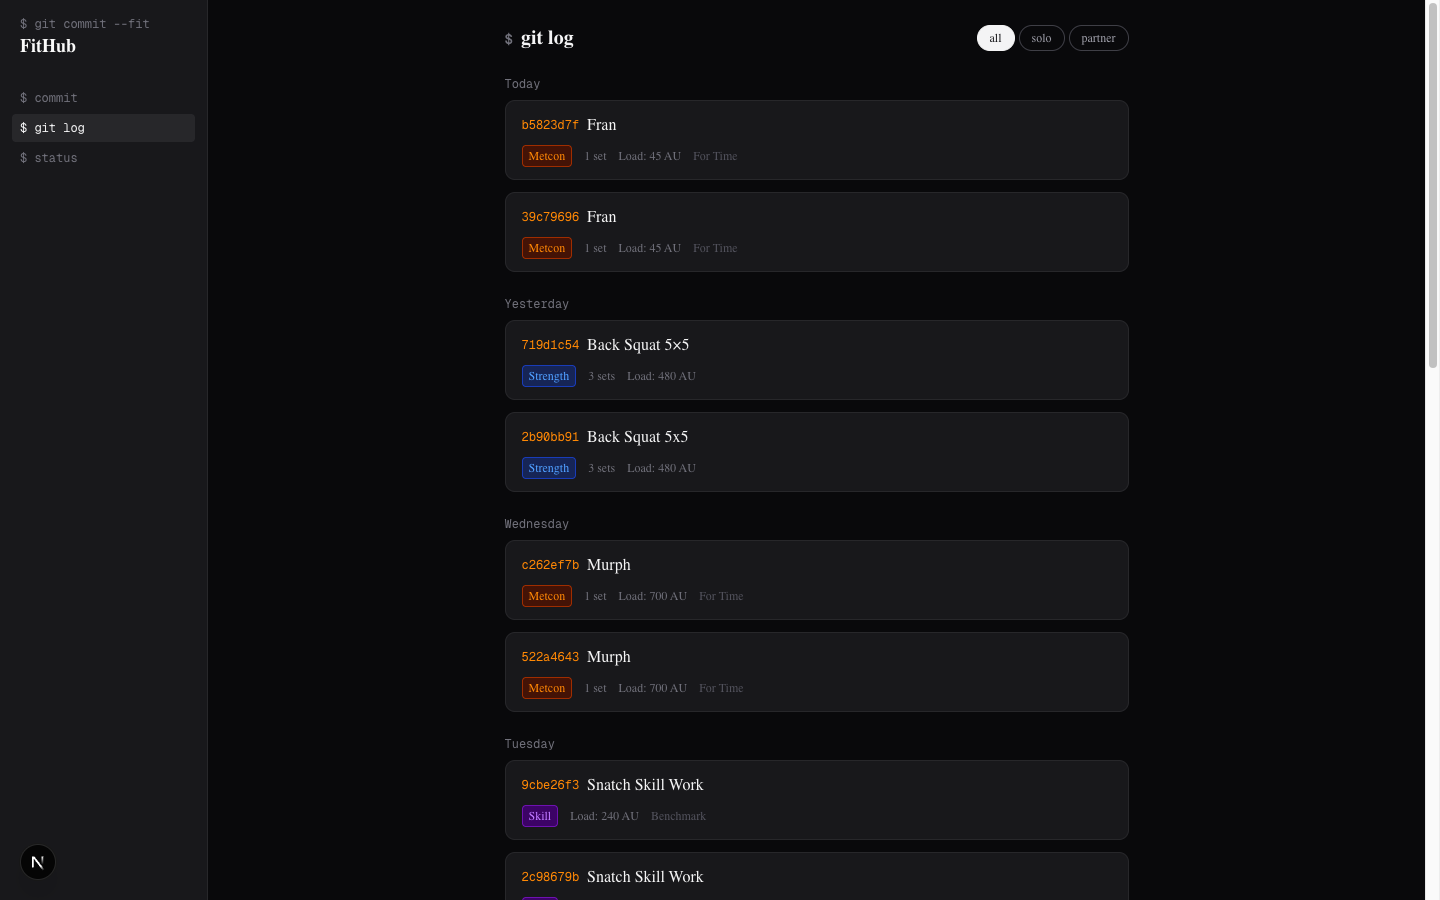
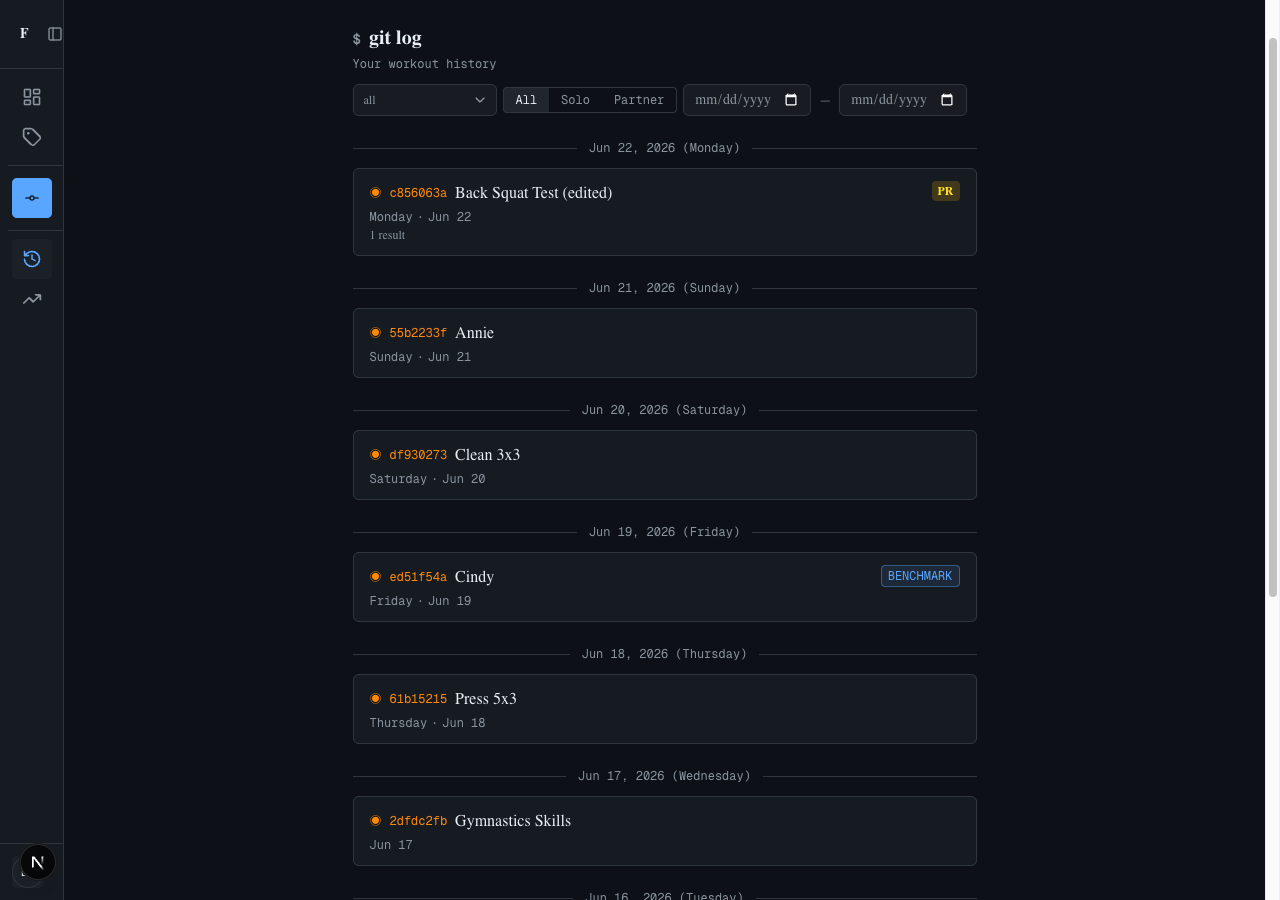
docs: update README with post-revamp screenshots and feature list (#68)
Replace four stale pre-revamp screenshots with six new ones covering the
redesigned pages: progress (hero), history desktop/mobile, logger, records,
and coach. Update the feature table, architecture table (shadcn/ui, SSE
streaming coach, training balance), and test counts (252 pytest / 52 pgTAP /
65 E2E / 64 Vitest). Note the completed UI redesign in the status section.

Claude-Session: https://claude.ai/code/session_0196L5uhaCda2e3MVLZ1YAzN

diff --git a/README.md b/README.md
@@ -8,9 +8,9 @@
 [![TypeScript](https://img.shields.io/badge/TypeScript-strict-blue?style=flat-square&logo=typescript&logoColor=white)](https://www.typescriptlang.org/)
 [![Ruff](https://img.shields.io/endpoint?url=https://raw.githubusercontent.com/astral-sh/ruff/main/assets/badge/v2.json)](https://github.com/astral-sh/ruff)
 
-![FitHub dashboard](screenshots/readme/dashboard.png)
+![FitHub progress page](screenshots/readme/progress.png)
 
-FitHub is a training tracker built on a git mental model: every workout is a commit with a short hash ID, the home screen is a contribution graph, and a sidebar styled like a terminal prompt anchors the theme. Under the surface it applies the sports-science models that most fitness apps skip — sRPE-based load, ACWR, and Hooper readiness — plus a deterministic AI layer that generates plans and coaching prose without ever being the source of safety decisions.
+FitHub is a training tracker built on a git mental model: every workout is a commit with a short hash ID, the history page is `git log`, and the sidebar is styled like a terminal prompt. Under the surface it applies the sports-science models that most fitness apps skip — sRPE-based load, ACWR, and Hooper readiness — plus a deterministic AI layer that generates plans and coaching prose without ever being the source of safety decisions.
 
 The app is invite-only and in active development. Email [[email redacted]](mailto:[email redacted]) to request access, or [run it locally](#getting-started).
 
@@ -18,13 +18,14 @@ The app is invite-only and in active development. Email [[email redacted]](mai
 
 ## What it does
 
-| Theme                   | Details                                                                                                                                                             |
-| ----------------------- | ------------------------------------------------------------------------------------------------------------------------------------------------------------------- |
-| **Training log**        | Commit metaphor for workouts — short hash IDs, contribution graph, support for strength, AMRAP, EMOM, benchmark WODs, and team sessions                             |
-| **Load management**     | sRPE × duration perceived load; ACWR (Acute:Chronic Workload Ratio) via EWMA; ATL/CTL/TSB; Hooper index check-ins for daily readiness                               |
-| **AI coach & planning** | Natural-language log parser; hybrid RAG coach (BM25 + pgvector RRF fusion); adaptive plan generator with deterministic ACWR/readiness triggers; injury train-around |
-| **Data model depth**    | Poliquin 4-digit tempo notation; Epley e1RM cached at write time; VBT fields; wearable-ready schema; IDOR-safe team session consent model                           |
-| **Engineering**         | Invite-only multi-user from day one; deterministic safety logic; 397 tests across three suites; openapi-typescript contract check in CI                             |
+| Theme                   | Details                                                                                                                                                                   |
+| ----------------------- | ------------------------------------------------------------------------------------------------------------------------------------------------------------------------- |
+| **Training log**        | `git commit --fit` — short hash IDs, PR badges, benchmark / partner / AMRAP / EMOM / strength WOD support; NL parser turns plain text into structured sets                |
+| **Load management**     | sRPE × duration perceived load; ACWR via EWMA; ATL/CTL/TSB; Hooper index check-ins; training balance breakdown by muscle group                                            |
+| **Personal records**    | `git tag` — milestone screen for quick PR logging; Records page with sparklines, trend projections, and named-benchmark progress (e.g. Fran 4:47 → 3:48)                  |
+| **AI coach & planning** | SSE streaming chat with session history; hybrid RAG (BM25 + pgvector RRF fusion); adaptive plan generator with deterministic ACWR/readiness triggers; injury train-around |
+| **Data model depth**    | Poliquin 4-digit tempo notation; Epley e1RM cached at write time; VBT fields; wearable-ready schema; IDOR-safe team session consent model                                 |
+| **Engineering**         | Invite-only multi-user from day one; deterministic safety logic; 433 tests across four suites; openapi-typescript contract check in CI                                    |
 
 ---
 
@@ -34,7 +35,7 @@ The app is invite-only and in active development. Email [[email redacted]](mai
 FitHub/
 ├── apps/
 │   ├── api/          # FastAPI — Python 3.14, Alembic migrations, psycopg3
-│   └── web/          # Next.js 16 App Router, shadcn/ui (Base UI), Tailwind v4
+│   └── web/          # Next.js 16 App Router, shadcn/ui, Tailwind v4
 ├── packages/
 │   └── shared/       # TypeScript types generated from the FastAPI OpenAPI spec
 ├── supabase/         # Local dev config, seed data, pgTAP RLS tests
@@ -51,16 +52,16 @@ The frontend calls FastAPI exclusively. Supabase handles auth (magic-link + Goog
 
 `packages/shared` contains TypeScript types generated from the FastAPI OpenAPI schema via `openapi-typescript`. A CI job re-exports the spec and regenerates types on every PR, failing on any drift between the API contract and the frontend type definitions.
 
-| Layer    | Technology                                                            |
-| -------- | --------------------------------------------------------------------- |
-| Frontend | Next.js 16 App Router, shadcn/ui (Base UI), Tailwind v4               |
-| Backend  | FastAPI, Pydantic v2, Alembic, psycopg3                               |
-| Database | Supabase Postgres + pgvector, RLS on every table                      |
-| Auth     | Supabase magic-link + Google OAuth, ES256 JWT via JWKS                |
-| AI       | Claude Haiku 4.5 via Instructor, hybrid RAG (BM25 + pgvector RRF)     |
-| Testing  | pytest (301), pgTAP RLS (42), Playwright E2E (54)                     |
-| CI       | GitHub Actions: lint, typecheck, test, contract drift, security audit |
-| Hosting  | Railway (API) · Vercel (web) · Supabase (DB / auth)                   |
+| Layer    | Technology                                                                       |
+| -------- | -------------------------------------------------------------------------------- |
+| Frontend | Next.js 16 App Router, shadcn/ui, Tailwind v4, Recharts                          |
+| Backend  | FastAPI, Pydantic v2, Alembic, psycopg3                                          |
+| Database | Supabase Postgres + pgvector, RLS on every table                                 |
+| Auth     | Supabase magic-link + Google OAuth, ES256 JWT via JWKS                           |
+| AI       | Claude Haiku 4.5 via Instructor, SSE streaming, hybrid RAG (BM25 + pgvector RRF) |
+| Testing  | pytest (252), pgTAP RLS (52), Playwright E2E (65), Vitest unit (64)              |
+| CI       | GitHub Actions: lint, typecheck, test, contract drift, security audit            |
+| Hosting  | Railway (API) · Vercel (web) · Supabase (DB / auth)                              |
 
 ---
 
@@ -72,7 +73,7 @@ The core principle: **safety-critical logic is deterministic Python; the LLM gen
 
 **NL log parser** — parses free-text workout descriptions into structured Pydantic models using [Instructor](https://github.com/instructor-ai/instructor) with Anthropic tool-use constrained decoding. Schema adherence is ~99% with Instructor vs ~85% with raw JSON mode; the structured output is validated by Pydantic before write.
 
-**Hybrid RAG coach** — retrieval combines BM25 keyword search and pgvector cosine similarity with Reciprocal Rank Fusion. Sources include CrossFit Level 1 programming standards, coaching notes, and session history. Context is XML-delimited before injection to mitigate prompt injection. `GET /api/v1/coach/history` returns persistent session history.
+**Streaming coach** — SSE endpoint with persistent session history. Retrieval combines BM25 keyword search and pgvector cosine similarity with Reciprocal Rank Fusion. Sources include CrossFit Level 1 programming standards, coaching notes, and session history. Context is XML-delimited before injection to mitigate prompt injection.
 
 **Adaptive plan generator** — returns HTTP 202 immediately and exposes a polling URL (async task pattern). Inputs are structured: Epley 1RM estimates, current ACWR, and Hooper readiness score. Output is validated against the sports-science knowledge base before persisting.
 
@@ -95,21 +96,31 @@ The core principle: **safety-critical logic is deterministic Python; the LLM gen
 <tr>
   <td align="center" width="50%">
     <img src="screenshots/readme/history.png" alt="History" />
-    <br /><sub>History — date-grouped sessions, session-type colour coding, PR badges</sub>
+    <br /><sub>History — <code>$ git log</code>, date-grouped commits, short hash IDs, PR and benchmark badges</sub>
   </td>
   <td align="center" width="50%">
-    <img src="screenshots/readme/log-form.png" alt="Log workout" />
-    <br /><sub>Log form — AI natural-language parse or manual entry</sub>
+    <img src="screenshots/readme/logger.png" alt="Log workout" />
+    <br /><sub>Logger — <code>$ git commit --fit</code>, NL parser or manual movement entry with template picker</sub>
   </td>
 </tr>
 <tr>
   <td align="center" width="50%">
-    <img src="screenshots/readme/log-form-expanded.png" alt="Log form expanded" />
-    <br /><sub>Log form expanded — full movement breakdown with set data</sub>
+    <img src="screenshots/readme/records.png" alt="Personal records" />
+    <br /><sub>Records — <code>$ git tag</code>, per-movement PRs with e1RM trend projections and sparklines</sub>
   </td>
   <td align="center" width="50%">
-    <img src="screenshots/readme/detail.png" alt="Workout detail" />
-    <br /><sub>Workout detail — git-commit view with result table and hash footer</sub>
+    <img src="screenshots/readme/coach.png" alt="AI coach" />
+    <br /><sub>Coach — SSE streaming chat with session history and starter prompts</sub>
+  </td>
+</tr>
+<tr>
+  <td align="center" width="50%">
+    <img src="screenshots/readme/history-mobile.png" alt="Mobile history" />
+    <br /><sub>Mobile — bottom tab bar, inset FAB, safe-area insets; full feature parity at 375px</sub>
+  </td>
+  <td align="center" width="50%">
+    <img src="screenshots/readme/progress.png" alt="Progress" />
+    <br /><sub>Progress — <code>$ git diff</code>, ACWR/CTL/TSB, lift trends, weekly volume, named benchmark progress</sub>
   </td>
 </tr>
 </table>
@@ -177,13 +188,14 @@ Open [http://localhost:3000](http://localhost:3000). The app is invite-only; add
 
 ## Testing
 
-FitHub has three test suites and passes strict static analysis. pgTAP is worth highlighting — most web applications rely solely on application-layer authorization checks; the 42 pgTAP tests verify that RLS policies prevent cross-user data access at the database layer, independent of the application code.
+FitHub has four test suites and passes strict static analysis. pgTAP is worth highlighting — most web applications rely solely on application-layer authorization checks; the 52 pgTAP tests verify that RLS policies prevent cross-user data access at the database layer, independent of the application code.
 
 | Suite              | Tool        | Count | Covers                                                  |
 | ------------------ | ----------- | ----- | ------------------------------------------------------- |
-| Unit + integration | pytest      | 301   | API routes, repositories, AI stubs, rate limiting, auth |
-| DB isolation       | pgTAP       | 42    | RLS policies on every table, cross-user data isolation  |
-| Browser E2E        | Playwright  | 54    | Auth flow, workout CRUD, coach chat, plan generation    |
+| Unit + integration | pytest      | 252   | API routes, repositories, AI stubs, rate limiting, auth |
+| DB isolation       | pgTAP       | 52    | RLS policies on every table, cross-user data isolation  |
+| Browser E2E        | Playwright  | 65    | Auth flow, workout CRUD, coach chat, plan generation    |
+| Unit (frontend)    | Vitest      | 64    | Utility functions, hooks, API client, component logic   |
 | Static analysis    | mypy + ruff | —     | Strict mypy, zero `Any` in models, ruff format          |
 
 ```bash
@@ -195,6 +207,9 @@ supabase --workdir . test db
 
 # E2E (requires API running on port 8000 with STUB_LLM=true)
 pnpm --filter web exec playwright test
+
+# Frontend unit
+pnpm --filter web test
 ```
 
 ---
@@ -215,13 +230,14 @@ Dependabot keeps Actions SHAs current monthly and pip/npm dependencies weekly.
 
 ## Status & roadmap
 
-Phases 0–7b are merged. Deployment (Phase 7c — Railway + Vercel + Supabase production) is the current milestone.
+The full UI redesign — new navigation, dashboard, history, logger, records, coach, profile, onboarding, and the `git tag` quick-milestone screen — shipped as part of the `feat/ui-revamp` branch and is now on `main`. Deployment (Railway + Vercel + Supabase production) is the current milestone.
 
 Near-term:
 
 - **Wearable data sync** — schema is wearable-ready; Oura / Apple Health pipeline not yet wired
 - **Nutrition tracking** — schema and feature design complete; deferred post-deployment
 - **Mobile PWA** — manifest and offline strategy planned; not yet implemented
+- **Training balance** — muscle-group categories on movements; balance widget ready on the progress page once movements are tagged
 
 **Access:** Email [[email redacted]](mailto:[email redacted]) to request an invite, or clone and [run locally](#getting-started).
 